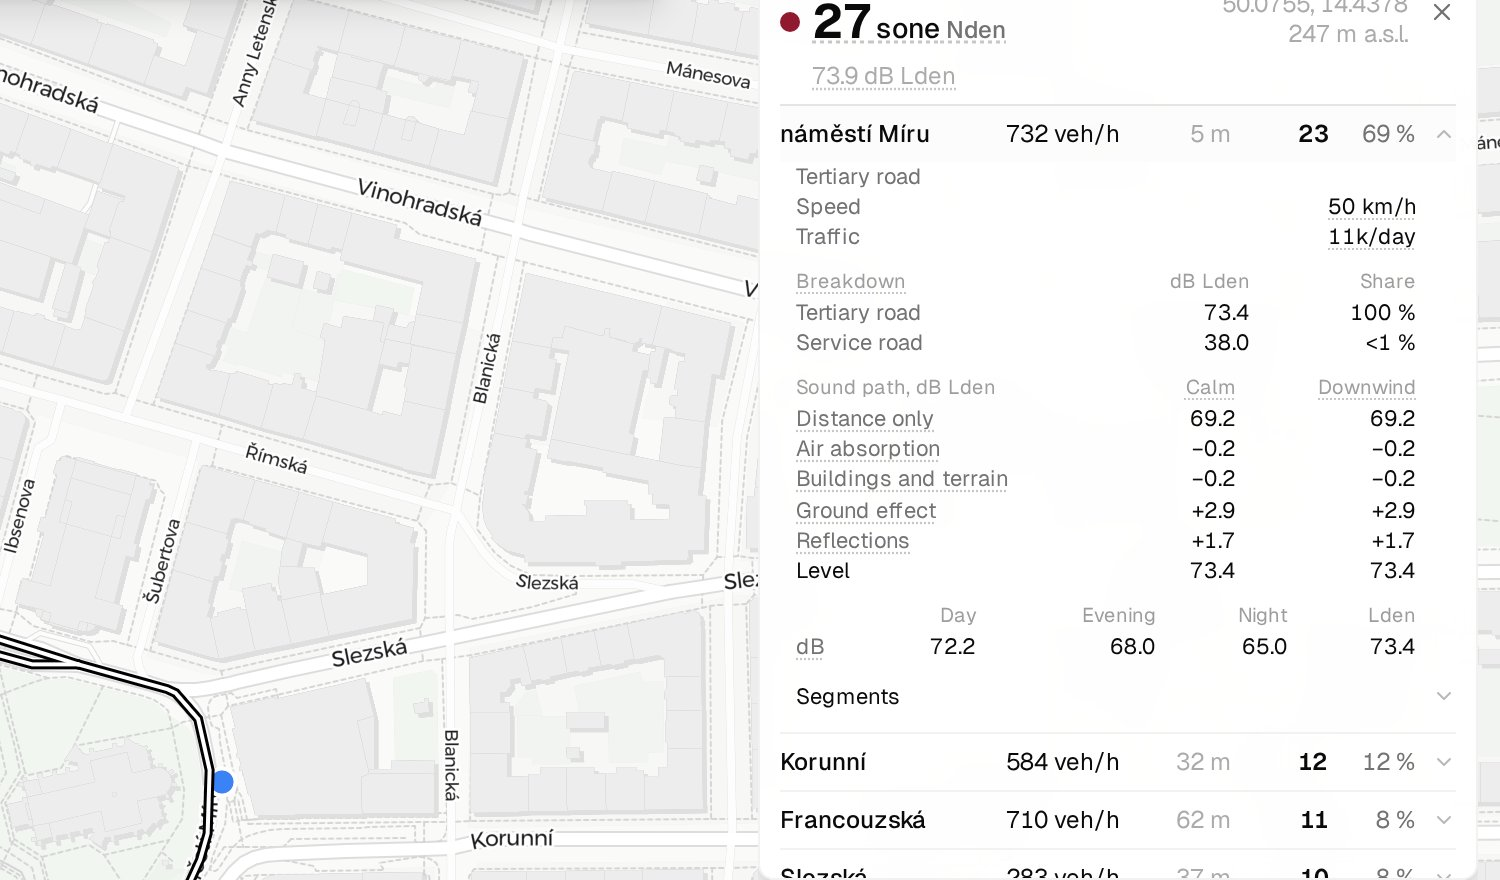
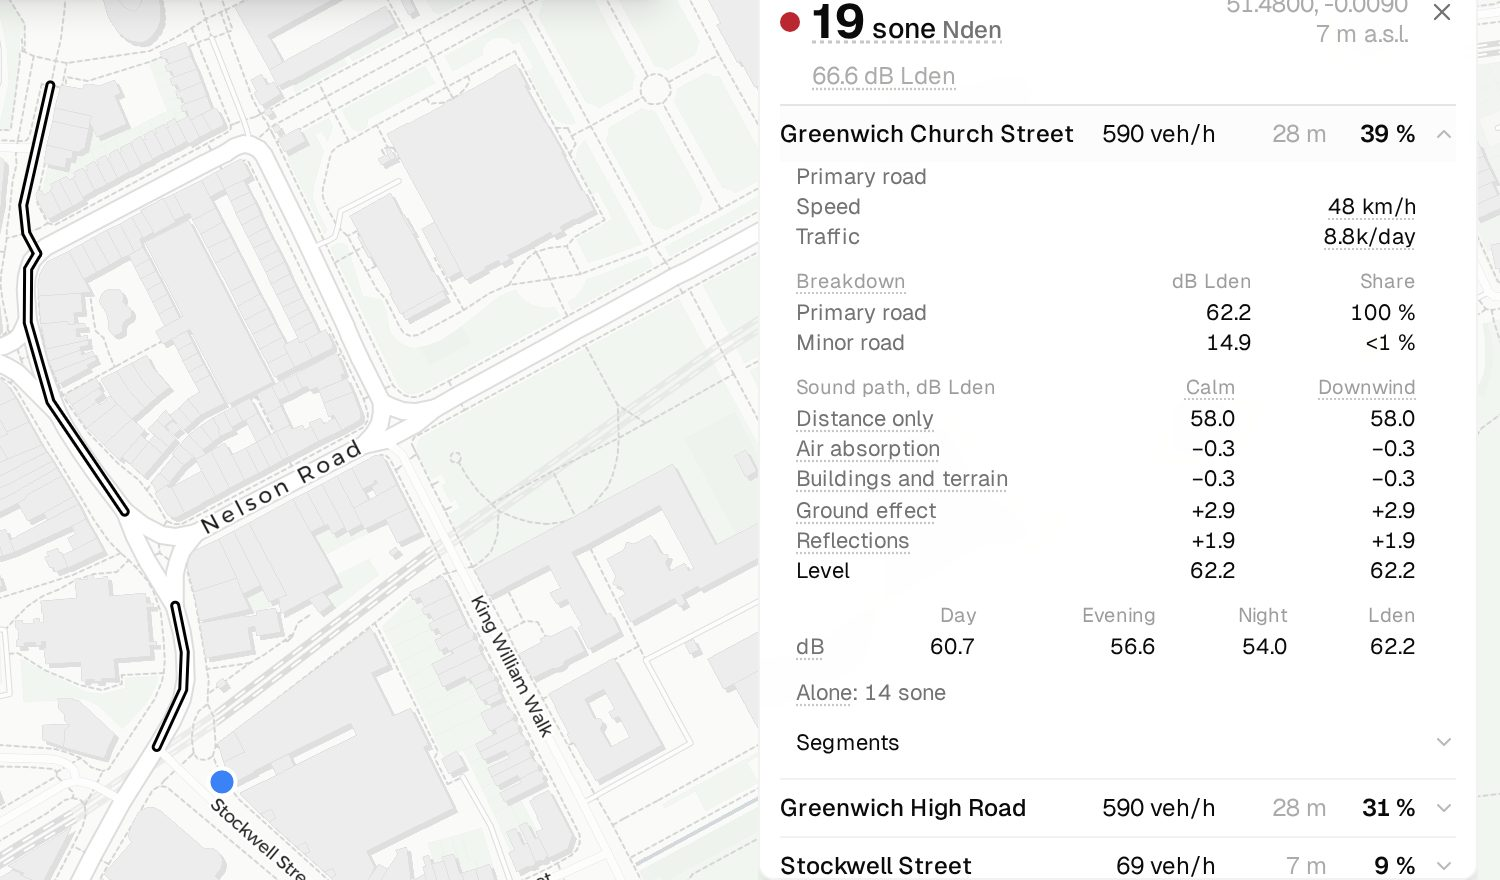
About: the popup's shots at Greenwich (rows by share, the loudness alone opened); r072's sizes, London's pieces and Greenwich's reads
Claude-Session: https://claude.ai/code/session_0143MFC8Quza3ab2CJaQ1b3p

diff --git a/frontend/src/about/data-preparation.md b/frontend/src/about/data-preparation.md
@@ -320,7 +320,7 @@ The datasets are credited on [Data sources](/about/data-sources).
 Everything the popup and the painter read is one tree of files. The world is cut into squares 49 km
 wide in London (zoom 9 of the web map's tiles), and each square keeps one file for each kind of
 data: the terrain, the buildings and walls, the sound sources and three of flights. The popup reads
-only the tiles around its point, each with one read. The world takes 1.08 TB in 377,082 files.
+only the tiles around its point, each with one read. The world takes 1.07 TB in 377,082 files.
 
 <figure style="margin: 1.75rem 0; color: var(--foreground)">
 <svg viewBox="0 0 400 244" role="img" aria-label="A zoom-9 square of eight by eight tiles with tile 2046/1362 of central London marked, and the square's directory holding its six files, one a kind of data, beside the year's weather table and flight tracks" style="display: block; width: 100%; max-width: 440px; height: auto; margin: 0 auto" font-size="12">
@@ -367,7 +367,7 @@ a smooth field's information is the residual of a planar prediction of its heigh
 | `terrain` | the ground's height every arc-second (31 m north to south), how much of it is sealed, its tree cover and how tall the trees stand | 202 GB, 7.0 million tiles in 117,367 files |
 | `terrain-fine` | where a 5 m national model exists, what the arc-second grid misses, every sixth of an arc-second | 6.2 GB, 15,289 tiles in 301 files |
 | `obstacles` | the outlines and heights of buildings and walls, listed by cells 48 m wide in London | 130 GB, 1.4 million tiles in 37,434 files |
-| `sources` | every ground source, as points and straight pieces | 170 GB, 2.2 million tiles in 70,810 files |
+| `sources` | every ground source, as points and straight pieces | 169 GB, 2.2 million tiles in 70,810 files |
 | `aircraft` | a year of flights, summed into boxes of airspace | 466 GB, 2.6 million tiles in 57,670 files |
 | `aircraft-far` | the same in boxes four times larger, read beyond 3 km | 64 GB, 2.6 million tiles in 57,670 files |
 | `aircraft-events` | per cell 380 m wide in London, the flights of a day whose loudest moment reaches 50, 60 and 70 dB | 9.6 GB, 1.6 million tiles in 35,830 files |
@@ -418,7 +418,7 @@ altitude at its two ends.
 | Airports | a straight stretch of a runway or taxiway, at most 250 m | an airport's ground operations, in the aircraft row |
 
 Three tiles of central London, from Hammersmith to Bermondsey, hold 69,475 road pieces, half of
-them shorter than 18 m; 5,932 railway pieces; 2,514 industrial points, 155,008 points of the
+them shorter than 18 m; 5,932 railway pieces; 2,514 industrial points, 153,965 points of the
 buildings layer and 589 of ships on the Thames. Flights are not pieces: they are the boxes
 described under Aircraft.
 

diff --git a/frontend/src/about/noise-at-a-point.md b/frontend/src/about/noise-at-a-point.md
@@ -26,8 +26,8 @@ whole place: each period and layer, the weather, the façade the point is answer
 levels exceeded 5 to 90 % of the time.
 
 <p>
-<img src="click.jpg" alt="A click on náměstí Míru in Prague: the level and its sources, the loudest road opened with its data and sound path" style="display:inline-block;width:300px;max-width:48%;vertical-align:top;margin:0 12px 0 0">
-<img src="calculation.jpg" alt="The same click's detailed calculation: the receiver, each period, each layer and the weather" style="display:inline-block;width:300px;max-width:48%;vertical-align:top;margin:0">
+<img src="click.jpg" alt="The popup at Greenwich in London: the level and its sources by share, the largest road opened with its data, sound path and loudness alone" style="display:inline-block;width:300px;max-width:48%;vertical-align:top;margin:0 12px 0 0">
+<img src="calculation.jpg" alt="The same point's detailed calculation: the receiver, each period, each layer and the weather" style="display:inline-block;width:300px;max-width:48%;vertical-align:top;margin:0">
 </p>
 
 <details>
@@ -102,8 +102,8 @@ and adds it all up.
 
 The popup reads the point's tile and its eight neighbours, computes and sends a first answer. Then
 it reads one more ring of tiles at a time until every ground source within 12 km and every flight
-within 16 km is covered, sending the whole answer again after each ring. At Baker Street in London
-it reads 218 MB in 115 reads, the flight tracks and the weather among them.
+within 16 km is covered, sending the whole answer again after each ring. At Greenwich in London it
+reads 219 MB in 114 reads, the flight tracks and the weather among them.
 
 <figure style="margin: 1.75rem 0; color: var(--foreground)">
 <svg viewBox="0 0 400 268" role="img" aria-label="Seven by seven tiles around a point in London: the inner three by three give the first answer, five by five cover the ground sources within 12 km, seven by seven the flights within 16 km" style="display: block; width: 100%; max-width: 440px; height: auto; margin: 0 auto" font-size="12">
